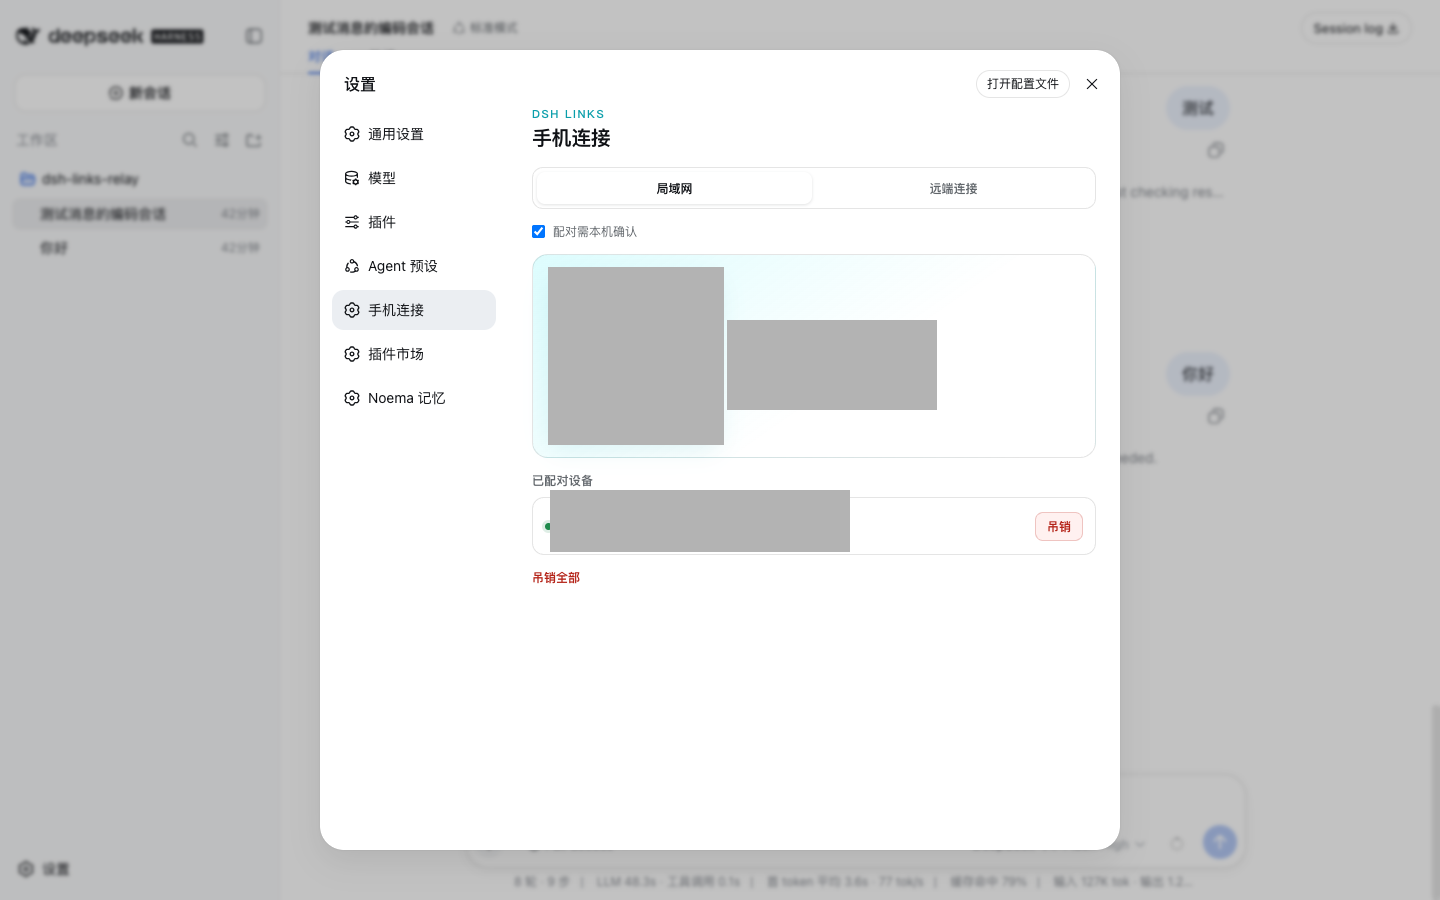
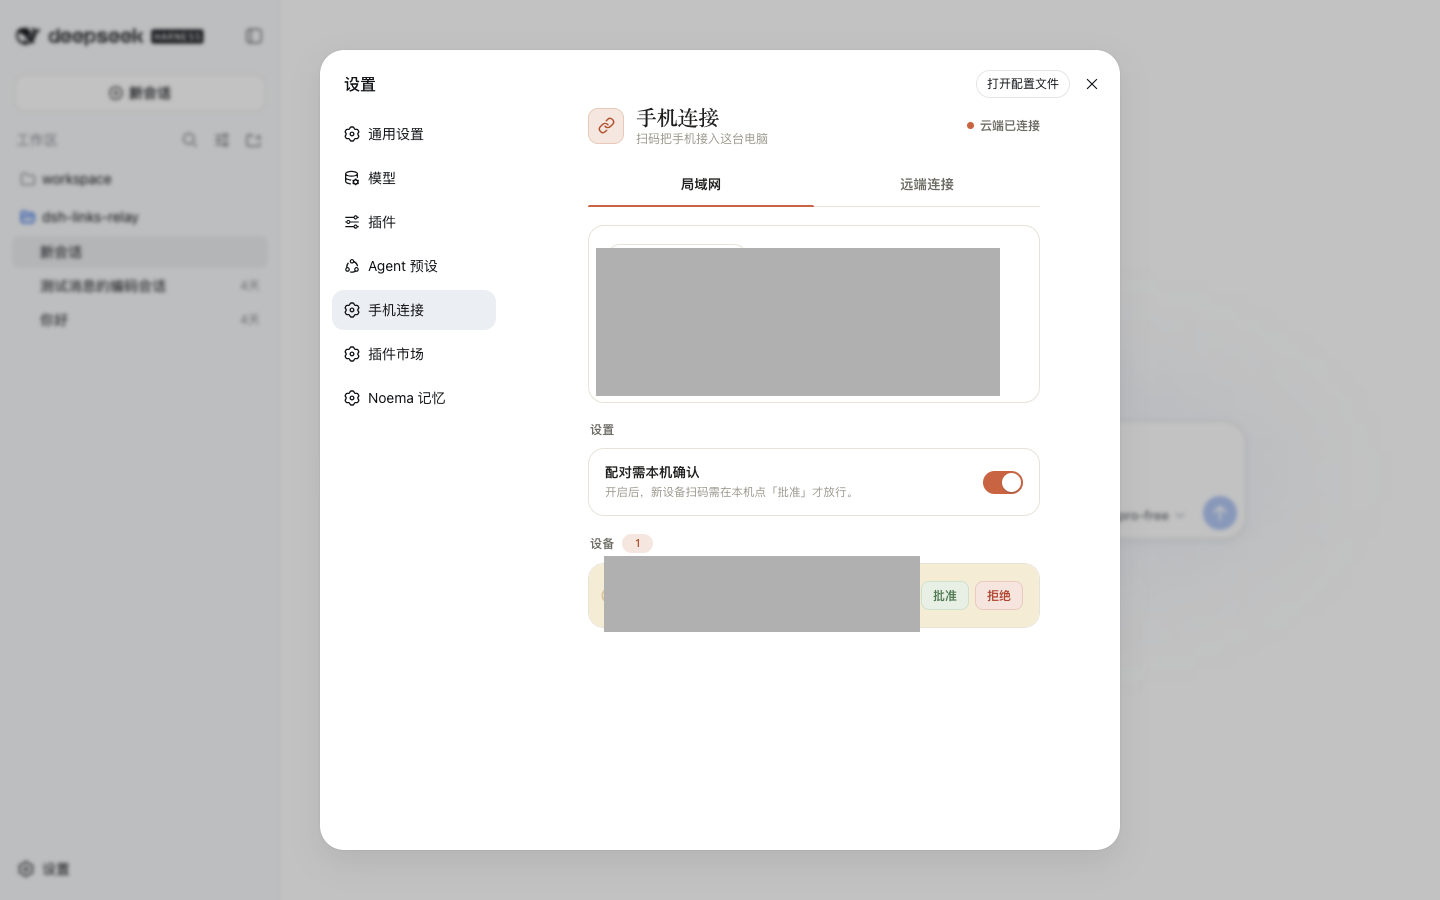
chore: drop dead llm.balance endpoint, refresh compat matrix and panel screenshot
- /dsh-link/mobile/balance relied on llm.balance, which is not a DSH RPC
  method in any released version; the endpoint never worked and the App
  already tolerates its absence. Remove the route and the allowlist entry,
  and lock the closed set in the allowlist test.
- Refresh README panel screenshot from the local DSH 0.1.1-rc.2 run
  (redacted QR, pairing code, device info with LAN IP; 1440x900).
- COMPATIBILITY.md: DSH baseline 0.1.0-rc.8 -> 0.1.1-rc.2 and record the
  smoke verification (RPC set, events.mux WebSocket, panel slot).

diff --git a/src/index.js b/src/index.js
@@ -1245,21 +1245,6 @@ async function handleMobileApi(req, res, targetPort, state, stateFile, device, p
       })
     }
 
-    if (req.method === "GET" && pathname === "/dsh-link/mobile/balance") {
-      try {
-        const value = await callLocalRpc(targetPort, "llm.balance", {})
-        return json(res, 200, {
-          version: 1,
-          balance: value.balance ?? 0,
-          used: value.used ?? 0,
-          remainder: value.remainder ?? 0,
-          currency: value.currency ?? "USD",
-        })
-      } catch (err) {
-        return json(res, 502, { error: "balance unavailable" })
-      }
-    }
-
     const modelMatch = pathname.match(/^\/dsh-link\/mobile\/sessions\/([^/]+)\/model$/)
     if (req.method === "POST" && modelMatch) {
       const sessionId = decodeURIComponent(modelMatch[1])

diff --git a/src/local-rpc.js b/src/local-rpc.js
@@ -12,7 +12,6 @@ import { randomBytes } from "node:crypto"
 /** 本插件允许代调的 dsh RPC 方法闭集。新增方法：先加这里，再加调用点。 */
 export const RPC_METHOD_ALLOWLIST = Object.freeze([
   "agentPreset.list",
-  "llm.balance",
   "llm.models",
   "session.cancel",
   "session.create",

diff --git a/docs/COMPATIBILITY.md b/docs/COMPATIBILITY.md
@@ -13,7 +13,7 @@ published.
 
 | Component | Source baseline | Published / released status | Verified compatibility status |
 |---|---|---|---|
-| DSH | `0.1.0-rc.8` | Upstream dependency; release status is not managed by this project | Used by the verified LAN combination below |
+| DSH | `0.1.1-rc.2` | Upstream dependency; release status is not managed by this project | LAN smoke verification below; full phone end-to-end remains in the RC closed-beta scope |
 | Plugin `dsh-links` | package `0.1.0-beta.9`; source tag `v0.1.0-beta.9` | npm registry status is not asserted here; verify it with `npm view` in the release environment | LAN combination below is the current documented verification |
 | Android `dsh-links-app` | `versionName 0.5.0-beta.14`; source tag `v0.5.0-beta.14` | APK release status is not asserted here; install only an official signed release whose version and SHA-256 are published with it | LAN combination below is the current documented verification |
 | Relay `dsh-links-relay` | Current `main` contains unpublished changes; no release tag | No public release or deployment status is asserted here | DLR/1 implementation is private, invite-only test scope only |
@@ -22,7 +22,8 @@ published.
 
 | DSH | Plugin | Android App | Relay | Verified path |
 |---|---|---|---|---|
-| `0.1.0-rc.8` | `0.1.0-beta.9` | `0.5.0-beta.14` | not required | Trusted LAN; the documented Beta combination |
+| `0.1.1-rc.2` | source `main` (post-`0.1.0-beta.9`) | `0.5.0-beta.14` | not required | Trusted LAN smoke, 2026-08-30: plugin load, `/dsh-link/*` routes, `session.list` / `session.history` / `llm.models` / `workspace.list` / `settings.describe` RPCs, `events.mux` WebSocket frames, and the settings panel slot all verified against `@deepseek-ai/dsh@0.1.1-rc.2`. Phone end-to-end (pairing, SSE push, approval) not yet rerun on this DSH version. |
+| `0.1.0-rc.8` | `0.1.0-beta.9` | `0.5.0-beta.14` | not required | Trusted LAN; the previously documented Beta combination |
 
 The row above is a LAN compatibility statement. It is not a claim that the
 same source snapshots have passed a public production deployment, a public

diff --git a/CHANGELOG.md b/CHANGELOG.md
@@ -4,6 +4,7 @@
 
 - 「手机连接」面板改为 Claude 风：暖象牙纸底 + 赤陶主色、衬线标题、下划线 Tab、设置/设备分组列表；暗色为暖炭黑（`prefers-color-scheme`）。
 - 布局收紧：配对区横向（二维码左、配对码与复制右），内容列约 452px 居中，避免宽设置面板被拉散。仅动 JSX 与 STYLE，接口与后端逻辑无变更。
+- 下线 `GET /dsh-link/mobile/balance`：`llm.balance` 并非 DSH 的 RPC 方法（rc.8 起即不存在），端点自上线即返回不可用；同从 `RPC_METHOD_ALLOWLIST` 移除。App 关于页余额入口已容错为不展示（`balance = null`），无需 App 改动；若未来要恢复，需实现真实的余额代查（如经插件读取 DeepSeek 平台 API）。
 
 ## dsh-links 0.1.0-beta.11 — 2026-08-28
 
